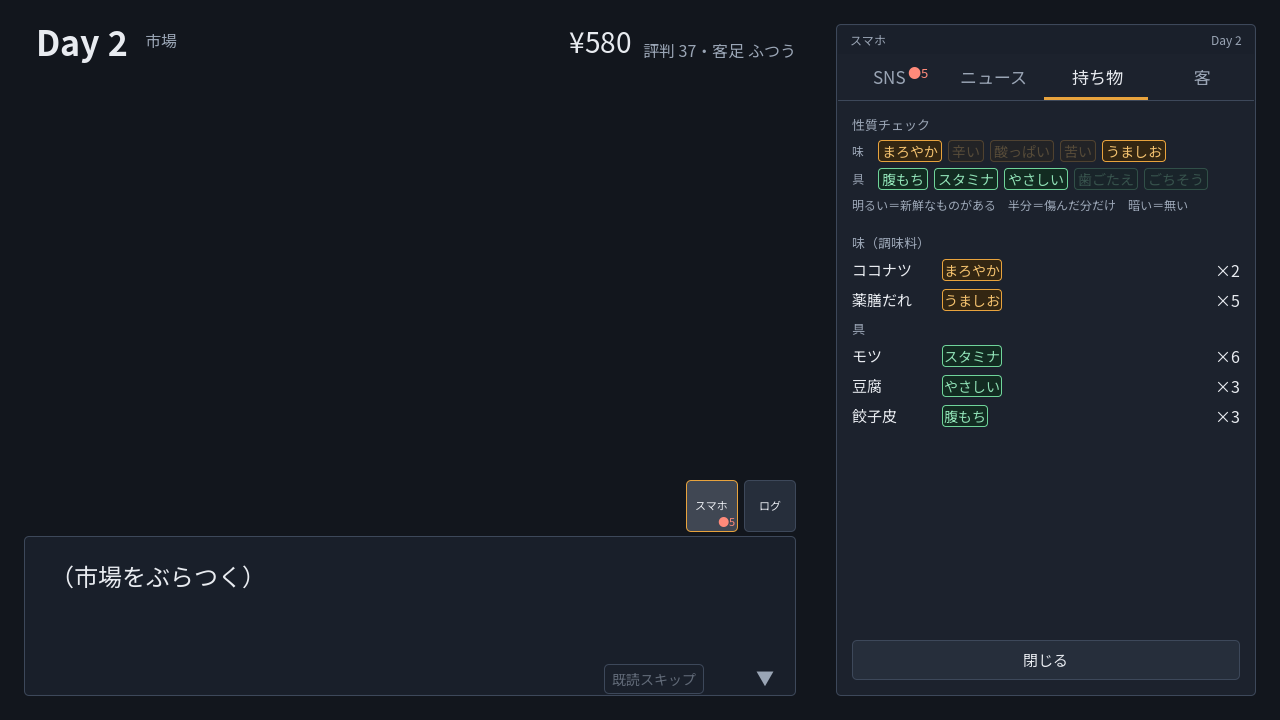
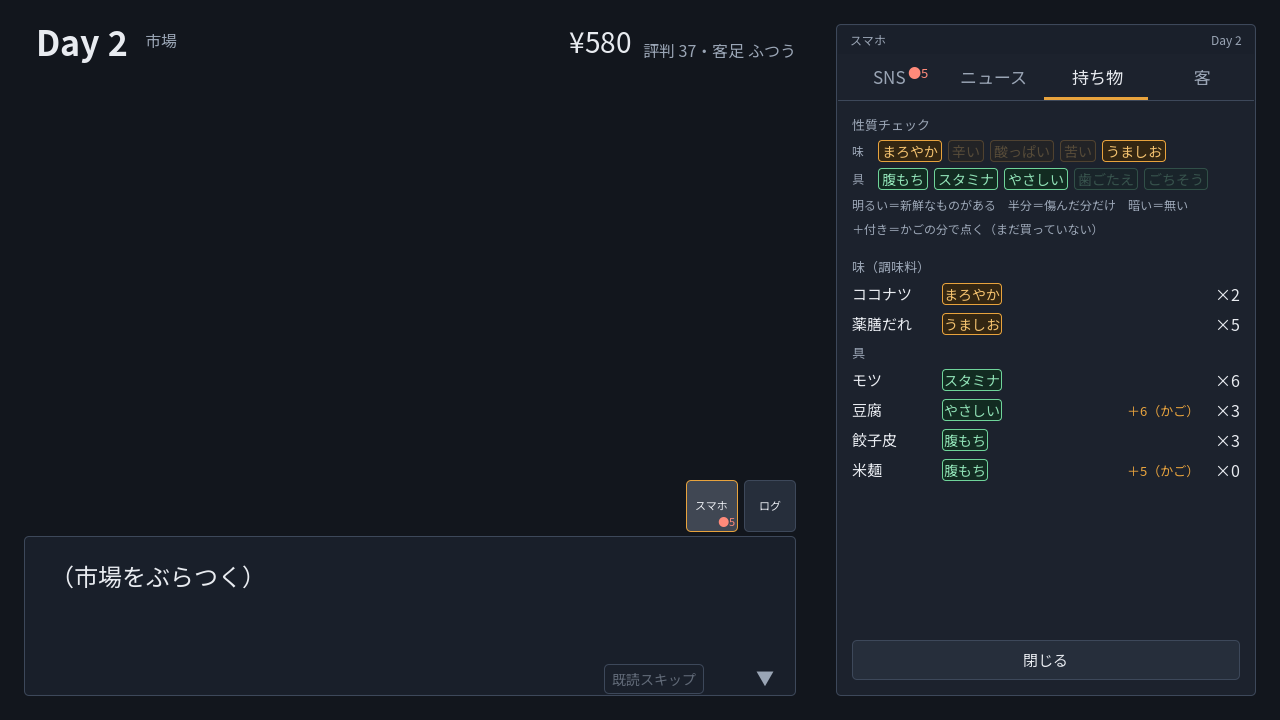
UI準備P: 仕入れの在庫を、かごを含めて見せる
- 市場の商品の行：かごに入れた分があれば「手持ち3 → 6」（購入後＝手持ち〔新鮮＋傷〕＋かごの分。「→ 購入後」は強調色の
  LabelStockAfter 16）。かごが空なら「手持ち3」だけ。同じ品目の別の商品（モツ・海老のパックと小口）は、かごの分を合わせる。
  濃縮だしは手持ちのだし＋かごの回数。購入確定でかごが空になり、手持ちが増えた数になる。
- UiShopCart の1行に表示用の item（品目。だしは商品id）・units（1回で増える個数）を足し、units_by_item(店) で合わせる。
- スマホの持ち物：市場にいるあいだは PlaySession.inventory_view(かご)（引数は省略可＝今までどおり）。行に「＋N（かご）」、
  手持ちが0でもかごにある材料の行を出す。性質チェックの札に状態 cart（かごの分でだけ点く）を足し、「＋」付きの半分の明るさで出す
  （傷んだ分だけの半点灯とは「＋」で見分ける）。かごがあるときだけ説明の行。在庫・判定には触れない。
- 市場の操作領域の幅（420）は変えていない。
- テスト：tests/market_stock_test.gd を追加。画面：planning/ui_screens_P/after を撮り直し、06b・06c（かごの分でだけ点く札）を追加。
- 確認：4.4.1・4.7.2 の全テスト 0件失敗。v2 の 3seed×13方針（39周）全キー一致。

diff --git a/CURRENT_SPEC.md b/CURRENT_SPEC.md
@@ -2876,6 +2876,7 @@ Day1の配達員の「同じ客へ3杯を1杯ずつ出す」専用のEvent列を
   スマホのタブは SNS／ニュース／持ち物／客 の4つ（各104幅。レシピタブは廃止して持ち物に置き換えた。`phone_recipes()`と夜の「いつもの」「保存」のデータ・動作は変えない）。
   持ち物タブ（`UiInventoryList`・`PlaySession.inventory_view()`）：上から、性質チェック（10の札。新鮮が1つ以上＝点灯・傷んだ分だけ＝半点灯・無い＝暗く）、味（調味料）と具に分けた材料
   （在庫が1つ以上のもの。名前・札・個数・新鮮／傷の内訳。鍋の素など椀に入れないものは出さない。かごに入れた分は含めない）。最終日は先頭に「残った分は持ち越せない」。
+  **【UI準備Pで変更】市場にいるあいだは、かごに入れた分を「＋N（かご）」で足し、かごの分でだけ点く札を「＋」付きの半分の明るさで出す（下のUI準備Pの項目）。**
   市場でもスマホを開いて見られる（閉じると店選びに戻る。かごは別に持っているので消えない）。一覧は縦に送れる。左側の常時表示のパネルは置かない（I2で一度作ったが、I3でスマホへ移した）。
   客ノートの名前あり客の行に「前回　材料」を1行（`RecipeBook.usual_for`。前回の記録がある客だけ）。日次ログに`purchase_items`（品目ごとの個数と額。初日セット・市場・追加のだし・鍋の素`prep:<段階>`）と
   `closing_stock`（閉店時の在庫：品目ごとの新鮮・傷・評価額＝単価×個数。単価は市場でいちばん大きい袋の 値段÷個数。追加のみ）。BALANCE_LOG の表示行に在庫評価額の合計。
@@ -3029,7 +3030,17 @@ Day1の配達員の「同じ客へ3杯を1杯ずつ出す」専用のEvent列を
   以前は味・具の欠けを「このままでは提供できません: 味の素材が無い・具が無い」と注意色で出していた。
 - **取り消すと捨てるの見分け**：入れた具材のボタンに「×」の印（D-3）。下段は「いつもの」「レシピ保存」（旧「保存」）｜区切り線｜「一杯を捨てる」（旧「廃棄」）「断る」。
   捨てる・断るの動き（捨てると鍋の分量が減る・断るの扱い）と確認の窓の有無は変えない。
-- テスト：`tests/topping_guidance_test.gd`（案内文の6つの状態の文と色・「×」・ボタンの文言と区切り）。`ui_kaiten_test`・`bowl_cancel_test`・`ui_panes_test`の寸法と文言を合わせた。
+- **仕入れの在庫を、かごを含めて見せる（UI準備P-4）**：
+  - 市場の商品の行の2行目：「手持ちN」→ かごに入れた分があれば「手持ち3 → 6」（「→ 購入後」は強調色の`LabelStockAfter`16）。
+    購入後＝手持ち（使える分＝新鮮＋傷）＋かごに入れた分。同じ品目の別の商品（モツのパックと小口・海老のパックと小口）は、かごの分を合わせて両方の行に出す。
+    濃縮だしは手持ちのだしの数＋かごの回数。かごが空なら「手持ち3」だけ。購入確定でかごが空になり、手持ちが増えた数になる。
+    かごは`UiShopCart`の1行に表示用の`item`（品目。だしは商品id）と`units`（1回で増える個数。だしは1）を足し、`units_by_item(店)`で合わせる。
+  - スマホの持ち物：市場にいるあいだ（`is_in_market`）は`PlaySession.inventory_view(かご)`（引数は品目→個数。省略すると今までどおり）。
+    行に`cart`（かごの分）を足し、手持ちが0でもかごにある材料の行を出す。画面は個数の左に「＋N（かご）」（強調色）。
+    性質チェックの札の状態に`cart`（手持ちの新鮮では点かず、かごの分でだけ点く）を足した：「＋」を付けた半分の明るさ（傷んだ分だけの半点灯とは「＋」で見分ける）。
+    かごがあるときだけ説明の行「＋付き＝かごの分で点く（まだ買っていない）」。在庫・判定には触れない（かごは買うまで在庫ではない）。
+  - 市場の操作領域の幅（420）は変えていない。
+- テスト：`tests/topping_guidance_test.gd`（案内文の6つの状態の文と色・「×」・ボタンの文言と区切り）、`tests/market_stock_test.gd`（かごの「→ 購入後」・購入確定の前後・持ち物のかごの分）。`ui_kaiten_test`・`bowl_cancel_test`・`ui_panes_test`の寸法と文言を合わせた。
   画面：`planning/ui_screens_P/`（before・after。`tools/ui_screens_P.gd`。横並びのはみ出しも数える）。
 
 ---
